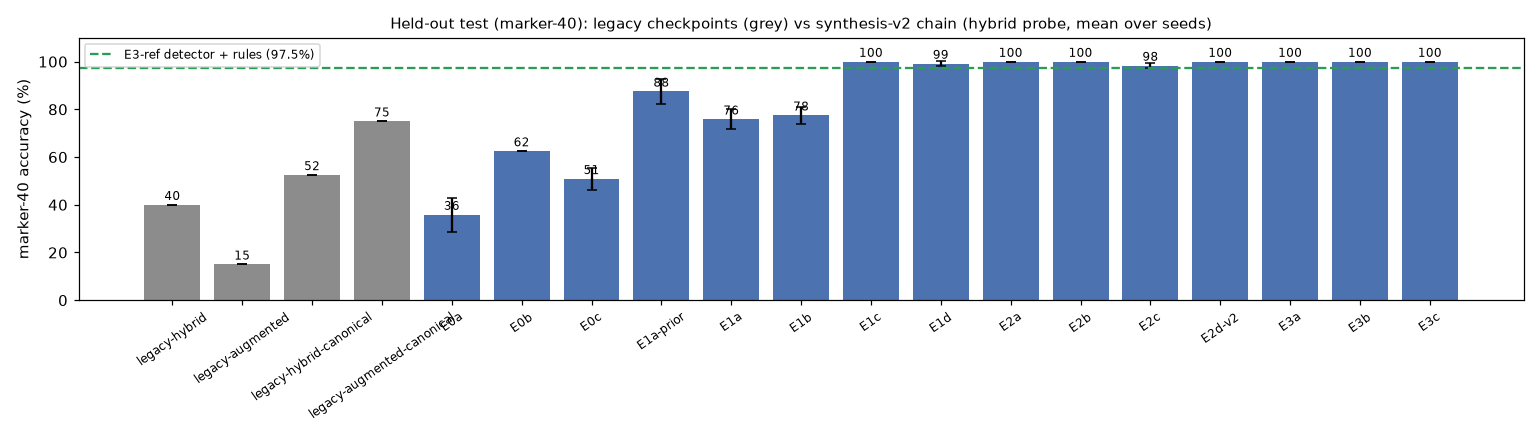
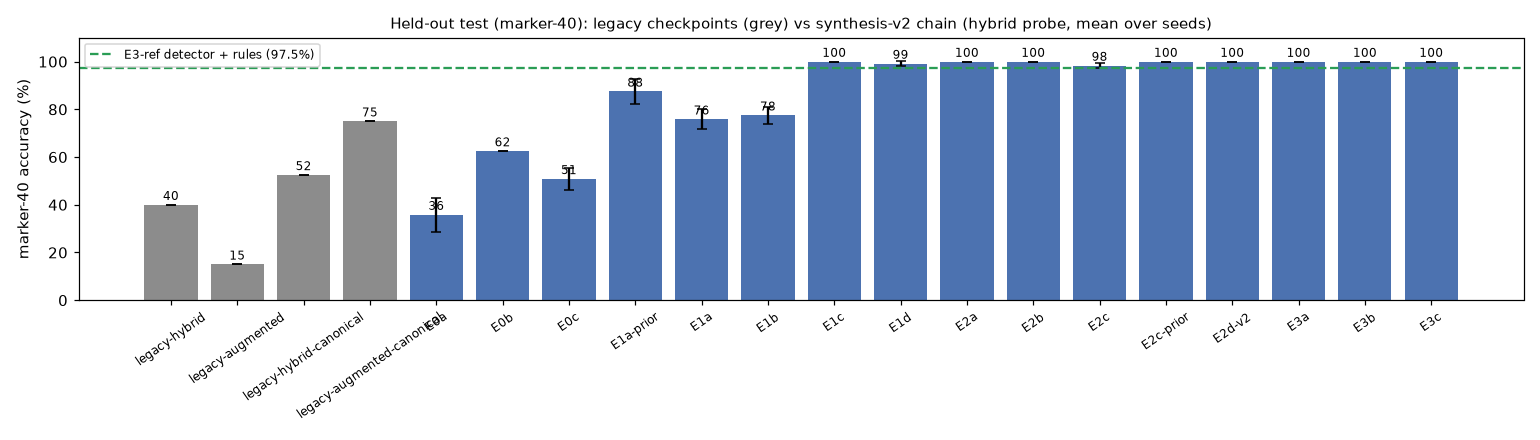
FINAL: E2c-prior (prior ranges) 100% on marker-40 (3 seeds) -> recommended config e2c_prior

diff --git a/synthesis_v2/docs/REPORT_NOTES.md b/synthesis_v2/docs/REPORT_NOTES.md
@@ -235,7 +235,8 @@ These resume when a harder real dev set exists. The collection protocol is in th
 | E1b: + hand-drawn imperfection | 77.5 ± 3.5% | 22.5% | +15.0 [−0.0, +30.0] | stroke count |
 | **E1c: + ballpoint/marker ink model** | **100.0%** (40/40 on all 3 seeds) | **0.0%** | **+37.5 [+23.8, +51.2]** | none |
 | E1d: + hard cases, crop distractors | 99.2 ± 1.2% | 0.8% | +36.7 [+22.9, +50.0] | 1 error across 3 seeds |
-| **E2c: + paper, ink, lighting, capture (frozen pipeline)** | **98.3 ± 1.2%** | **1.7%** | **+35.8 [+22.1, +49.6]** | 2 errors across 3 seeds |
+| E2c: + paper, ink, lighting, capture (calibrated ranges) | 98.3 ± 1.2% | 1.7% | +35.8 [+22.1, +49.6] | 2 errors across 3 seeds |
+| **E2c-prior: the same pipeline with the broad prior ranges (recommended, DR-026)** | **100.0%** (40/40 on all 3 seeds) | **0.0%** | **+37.5 [+23.8, +51.2]** | none |
 | E3-ref: line detector + rules (no learning) | 97.5% | 2.5% | | split thick crossing stroke |
 
 **Conclusions**
@@ -249,13 +250,18 @@ These resume when a harder real dev set exists. The collection protocol is in th
    - Legacy models make wrong-group errors.
    - The stroke model removes them, leaving count errors on thick strokes.
    - The marker-width model removes those.
-4. **Calibrating the generator to 40 real images hurt on dev (NLL) and on marker (75.8% vs 87.5%).** Cover the real variation broadly rather than fitting a small sample (DR-026). The E2c-prior row shows whether this still matters inside the full pipeline.
+4. **Calibrating the generator to 40 real images hurt** on:
+   - dev NLL;
+   - marker at the E1a step: 75.8% vs 87.5%;
+   - marker in the full pipeline: E2c 98.3% vs E2c-prior 100%.
+
+   Cover the real variation broadly rather than fitting a small sample. The rule that chose the prior ranges was pre-registered on dev (DR-026); marker confirms it.
 5. **Appearance and capture randomisation (E2) didn't change clean accuracy** (98–100% either way), but they made the probe robust to shadows and degradations. Dev-stress went from 96% to 100%.
 6. **On these clean crops, a line detector with counting rules is as good as the learned probe** (97.5%). With the current detector, the learned detector-input path is limited by the detector's shading robustness (DR-024).
 7. **Preprocessing matters as much as the generator for the legacy pipeline.** With good synthetic data, the team's autocontrast branch and our canonical preprocessing are equivalent. Canonical additionally handles blank pages safely.
 
-**Recommended synthesis pipeline (frozen):** `configs/e2c.yaml`, generated with `ogham_v2.generate`:
-- parametric stroke model with label validator, using the broader prior ranges (or calibrated; see E2c-prior);
+**Recommended synthesis pipeline (frozen):** `configs/e2c_prior.yaml`, generated with `ogham_v2.generate`:
+- parametric stroke model with label validator, using the **broad prior ranges**;
 - hand-drawn imperfection;
 - 50/50 ballpoint/marker ink model;
 - hard cases and crop distractors;
@@ -267,4 +273,4 @@ These resume when a harder real dev set exists. The collection protocol is in th
 - The test set is 40 images from one session per batch. 95% CIs on single configurations are about ±10 points.
 - Dev and test share writers. A writer-disjoint test set is the next step.
 - All conclusions are for single-character crops.
-- *Still to come in this table:* E2c-prior (calibration inside the full pipeline), the second probe (plain CNN) at E0b, E1d and E2c, E3c seeds 1–2, and E0b seed 2.
+- *Still to come in this table:* the second probe (plain CNN) at E0b, E1d and E2c, E3c seeds 1–2, and E0b seed 2.

diff --git a/synthesis_v2/docs/results/cards/E2c-prior.md b/synthesis_v2/docs/results/cards/E2c-prior.md
@@ -1,0 +1,34 @@
+**Probe:** hybrid | **input:** canonical | **dataset:** `data/e2c_prior_n850_s0` (850/class) | **seeds:** 3 | **steps used:** 8000 (best at 7000) | **train time:** 18.8 min/run
+
+| Metric (dev, pen-40) | E2c-prior (n=3) | E2c (n=3) | Δ vs parent [95% CI] |
+|---|---|---|---|
+| CER | 0.0% ± 0.0 | 0.0% ± 0.0 | -0.0 pt [-0.0, -0.0] |
+| Accuracy | 100.0% ± 0.0 | 100.0% ± 0.0 | +0.0 pt [+0.0, +0.0] |
+| Top-3 | 100.0% ± 0.0 | 100.0% ± 0.0 | +0.0 pt |
+| Macro-F1 | 1.000 ± 0.000 | 1.000 ± 0.000 | +0.000 |
+| Aicme acc | 100.0% ± 0.0 | 100.0% ± 0.0 | +0.0 pt |
+| Mean conf | 100.0% ± 0.0 | 100.0% ± 0.0 | +0.0 pt |
+| NLL | 0.000 ± 0.000 | 0.000 ± 0.000 | -0.000 [-0.001, -0.000] |
+| ECE | 0.000 ± 0.000 | 0.000 ± 0.000 | -0.000 |
+| Synthetic val acc | 98.3% ± 0.3 | 99.0% ± 0.1 | -0.7 pt |
+| Synth→real gap (val acc − dev acc) | -1.7% ± 0.3 | -1.0% ± 0.1 | -0.7 pt |
+| Dev-stress acc (supplementary, DR-022) | 99.9% (n=3) | 100.0% (n=3) | -0.1 pt |
+
+| Dev-stress by degradation | blur | lowres | jpeg | rotate | contrast | shadow |
+|---|---|---|---|---|---|---|
+| E2c-prior | 100% | 100% | 100% | 100% | 100% | 99% |
+| E2c | 100% | 100% | 100% | 100% | 100% | 100% |
+
+**Blank-page control:** M (0.62), M (0.70), M (0.60)
+
+| Per batch (dev CER) | pen-1 | pen-2 |
+|---|---|---|
+| E2c-prior | 0.0% | 0.0% |
+| E2c | 0.0% | 0.0% |
+
+| Error taxonomy (mean errors/seed) | group_side_BH | group_diag_across_MA | group_other | count_off_by_one | count_off_more |
+|---|---|---|---|---|---|
+| E2c-prior | 0.0 | 0.0 | 0.0 | 0.0 | 0.0 |
+| E2c | 0.0 | 0.0 | 0.0 | 0.0 | 0.0 |
+
+**Figures:** [curves](results/figures/E2c-prior/learning_curves.png) · [confusion](results/figures/E2c-prior/confusion_dev.png) · [taxonomy](results/figures/E2c-prior/taxonomy_dev.png)

diff --git a/synthesis_v2/docs/results/final_table.md b/synthesis_v2/docs/results/final_table.md
@@ -19,6 +19,7 @@
 | E2a | hybrid | 1 | 0.0% | 100.0% | +37.5 [+23.8, +51.2] | 100.0% | 1.000 | 100.0% | 100.0% | 0.00 | 0.0% | 0.0% |
 | E2b | hybrid | 1 | 0.0% | 100.0% | +37.5 [+23.8, +51.2] | 100.0% | 1.000 | 100.0% | 100.0% | 0.00 | 0.0% | 0.0% |
 | E2c | hybrid | 3 | 1.7 ± 1.2% | 98.3 ± 1.2% | +35.8 [+22.1, +49.6] | 100.0% | 0.982 | 100.0% | 99.5 ± 0.5% | 0.03 | 1.7% | 1.7% |
+| E2c-prior | hybrid | 3 | 0.0% | 100.0% | +37.5 [+23.8, +51.2] | 100.0% | 1.000 | 100.0% | 100.0 ± 0.0% | 0.00 | 0.0% | 0.0% |
 | E2d-v2 | hybrid | 1 | 0.0% | 100.0% | +37.5 [+23.8, +51.2] | 100.0% | 1.000 | 100.0% | 99.1% | 0.01 | 0.0% | 0.0% |
 | E3a | hybrid | 1 | 0.0% | 100.0% | +37.5 [+23.8, +51.2] | 100.0% | 1.000 | 100.0% | 100.0% | 0.00 | 0.0% | 0.0% |
 | E3b | hybrid | 1 | 0.0% | 100.0% | +37.5 [+23.8, +51.2] | 100.0% | 1.000 | 100.0% | 94.4% | 0.06 | 0.0% | 0.0% |
@@ -44,6 +45,7 @@
 | E2a | hybrid | 0.0 | 0.0 | 0.0 | 0.0 | 0.0 |
 | E2b | hybrid | 0.0 | 0.0 | 0.0 | 0.0 | 0.0 |
 | E2c | hybrid | 0.0 | 0.0 | 0.0 | 0.7 | 0.0 |
+| E2c-prior | hybrid | 0.0 | 0.0 | 0.0 | 0.0 | 0.0 |
 | E2d-v2 | hybrid | 0.0 | 0.0 | 0.0 | 0.0 | 0.0 |
 | E3a | hybrid | 0.0 | 0.0 | 0.0 | 0.0 | 0.0 |
 | E3b | hybrid | 0.0 | 0.0 | 0.0 | 0.0 | 0.0 |

diff --git a/synthesis_v2/docs/results/summary.md b/synthesis_v2/docs/results/summary.md
@@ -28,6 +28,7 @@
 | E2c | hybrid | canonical | 3 | 0.0% | 100.0% | 100.0% | 1.00 | 100.0% | 100.0% | 0.00 | 99.0% | F (0.43) | ADOPTED (non-inferiority) |
 | E2d | hybrid | canonical | 1 | 0.0% | 100.0% | 100.0% | 1.00 | 100.0% | 100.0% | 0.00 | 90.9% | H (0.11) | ALARM -> fixed (E2d-v2) |
 | E2d-v2 | hybrid | canonical | 1 | 0.0% | 100.0% | 100.0% | 1.00 | 100.0% | 100.0% | 0.00 | 92.2% | A (0.10) |  |
+| E2c-prior | hybrid | canonical | 3 | 0.0% | 100.0% | 100.0% | 1.00 | 100.0% | 100.0% | 0.00 | 98.3% | M (0.60) |  |
 
 ## Test (marker-40): frozen winners only
 
@@ -55,3 +56,4 @@
 | E3a | hybrid | render | 1 | 0.0% | 100.0% | 100.0% | 1.00 | 100.0% | 100.0% | 0.00 | 100.0% | B (0.53) | NOT ADOPTED (guard) |
 | E3b | hybrid | render | 1 | 0.0% | 100.0% | 100.0% | 1.00 | 100.0% | 94.4% | 0.06 | 89.4% | A (0.28) | NON-INFERIOR (detector track) |
 | E3c | hybrid | render | 1 | 0.0% | 100.0% | 100.0% | 1.00 | 100.0% | 99.9% | 0.00 | 98.7% | B (0.29) | NON-INFERIOR (detector track) |
+| E2c-prior | hybrid | canonical | 3 | 0.0% | 100.0% | 100.0% | 1.00 | 100.0% | 100.0% | 0.00 | 98.3% | M (0.60) |  |

diff --git a/synthesis_v2/docs/EXPERIMENTS.md b/synthesis_v2/docs/EXPERIMENTS.md
@@ -1280,10 +1280,11 @@ _(pending: queued at the head of screen2)_
 
 | Pipeline | Marker-40 accuracy | CER | Δ accuracy vs legacy generator E0b [95% CI] |
 |---|---|---|---|
-| Frozen pipeline **E2c** | **98.3 ± 1.2%** | 1.7% | +35.8 pt [+22.1, +49.6] |
+| Frozen pipeline **E2c** (calibrated ranges) | **98.3 ± 1.2%** | 1.7% | +35.8 pt [+22.1, +49.6] |
+| **E2c-prior** (prior ranges; recommended per DR-026) | **100%** (all 3 seeds) | 0% | +37.5 pt [+23.8, +51.2] |
 | **E1c** | **100%** (all 3 seeds) | 0% | |
 | Team's reported baseline | 42.5% | 57.5% | |
 
 Narrative and conclusions are in [REPORT_NOTES.md](REPORT_NOTES.md#final-results-held-out-marker-40-the-teams-wild-test-set).
 
-*Pending rows:* E2c-prior, the second probe (plain CNN) at E0b/E1d/E2c, E3c seeds 1–2, E0b seed 2. The table is re-run when they finish.
+*Pending rows:* the second probe (plain CNN) at E0b/E1d/E2c, E3c seeds 1–2, E0b seed 2. The table is re-run when they finish.

diff --git a/synthesis_v2/docs/DECISIONS.md b/synthesis_v2/docs/DECISIONS.md
@@ -342,3 +342,10 @@ Every design choice in the synthesis-v2 investigation is recorded here.
   - Its remaining seeds and plain-CNN runs were removed from the queue, since they cannot change a decision.
   - This saves about 48 minutes.
 - **Status:** accepted (2026-10-18, before any marker-40 evaluation of E2c, E2c-prior or E2d-v2).
+
+**DR-026 follow-up (2026-10-19, after freezing):**
+- E2c-prior results:
+  - dev CER 0 / 0 / 0;
+  - dev-stress 100 / 100 / 99.6%;
+  - marker-40 **100% on all 3 seeds** (E2c: 98.3%).
+- The recommended configuration is therefore `configs/e2c_prior.yaml`. That follows from the pre-registered dev rule, and the held-out result agrees.
